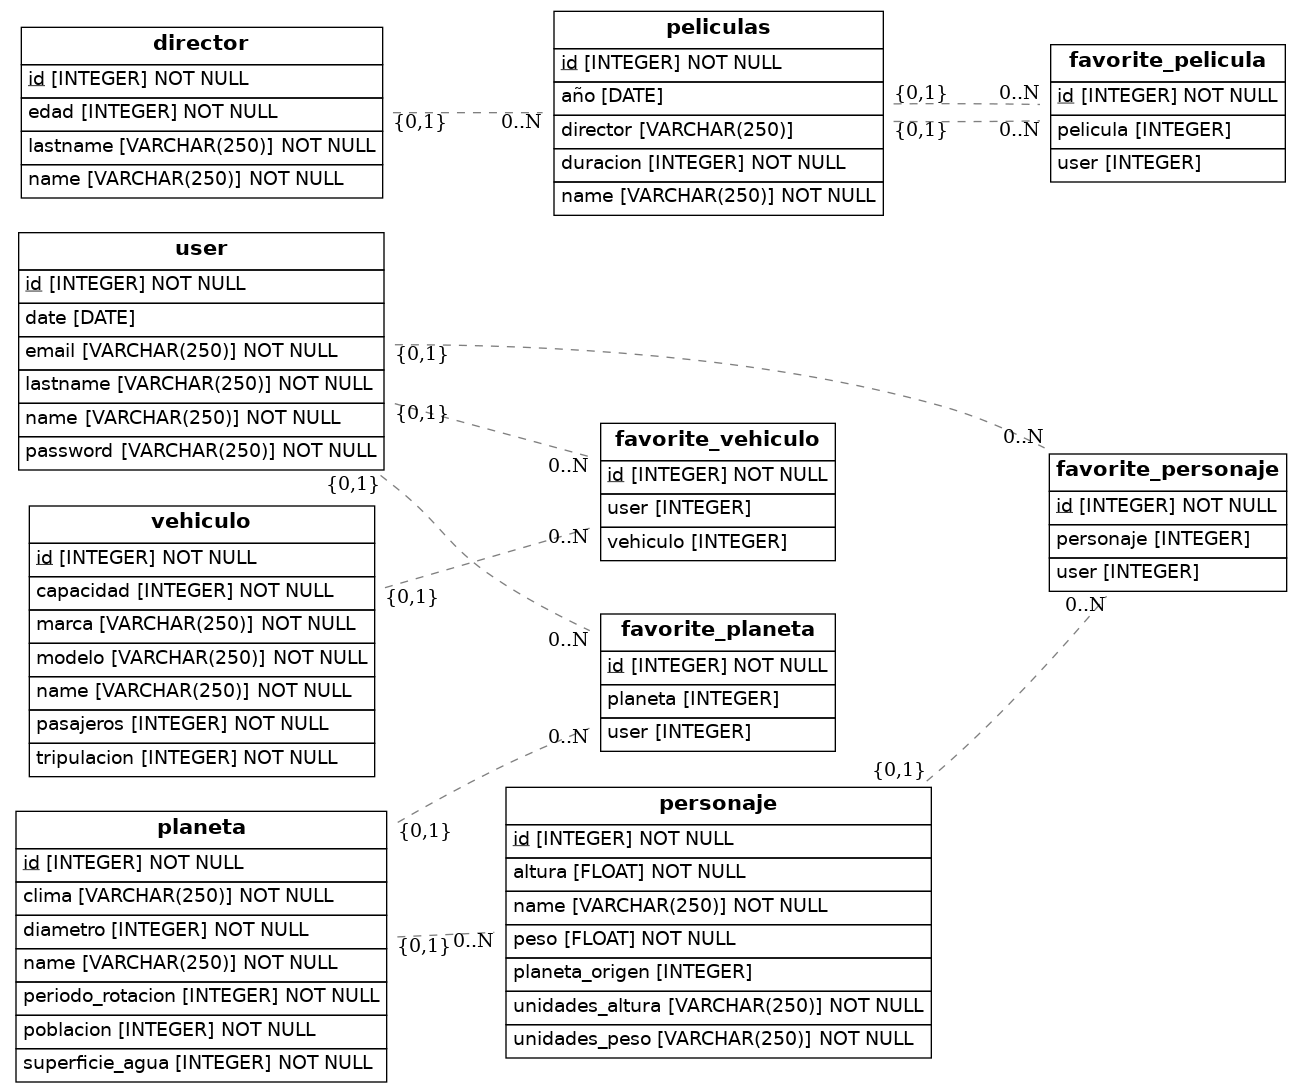
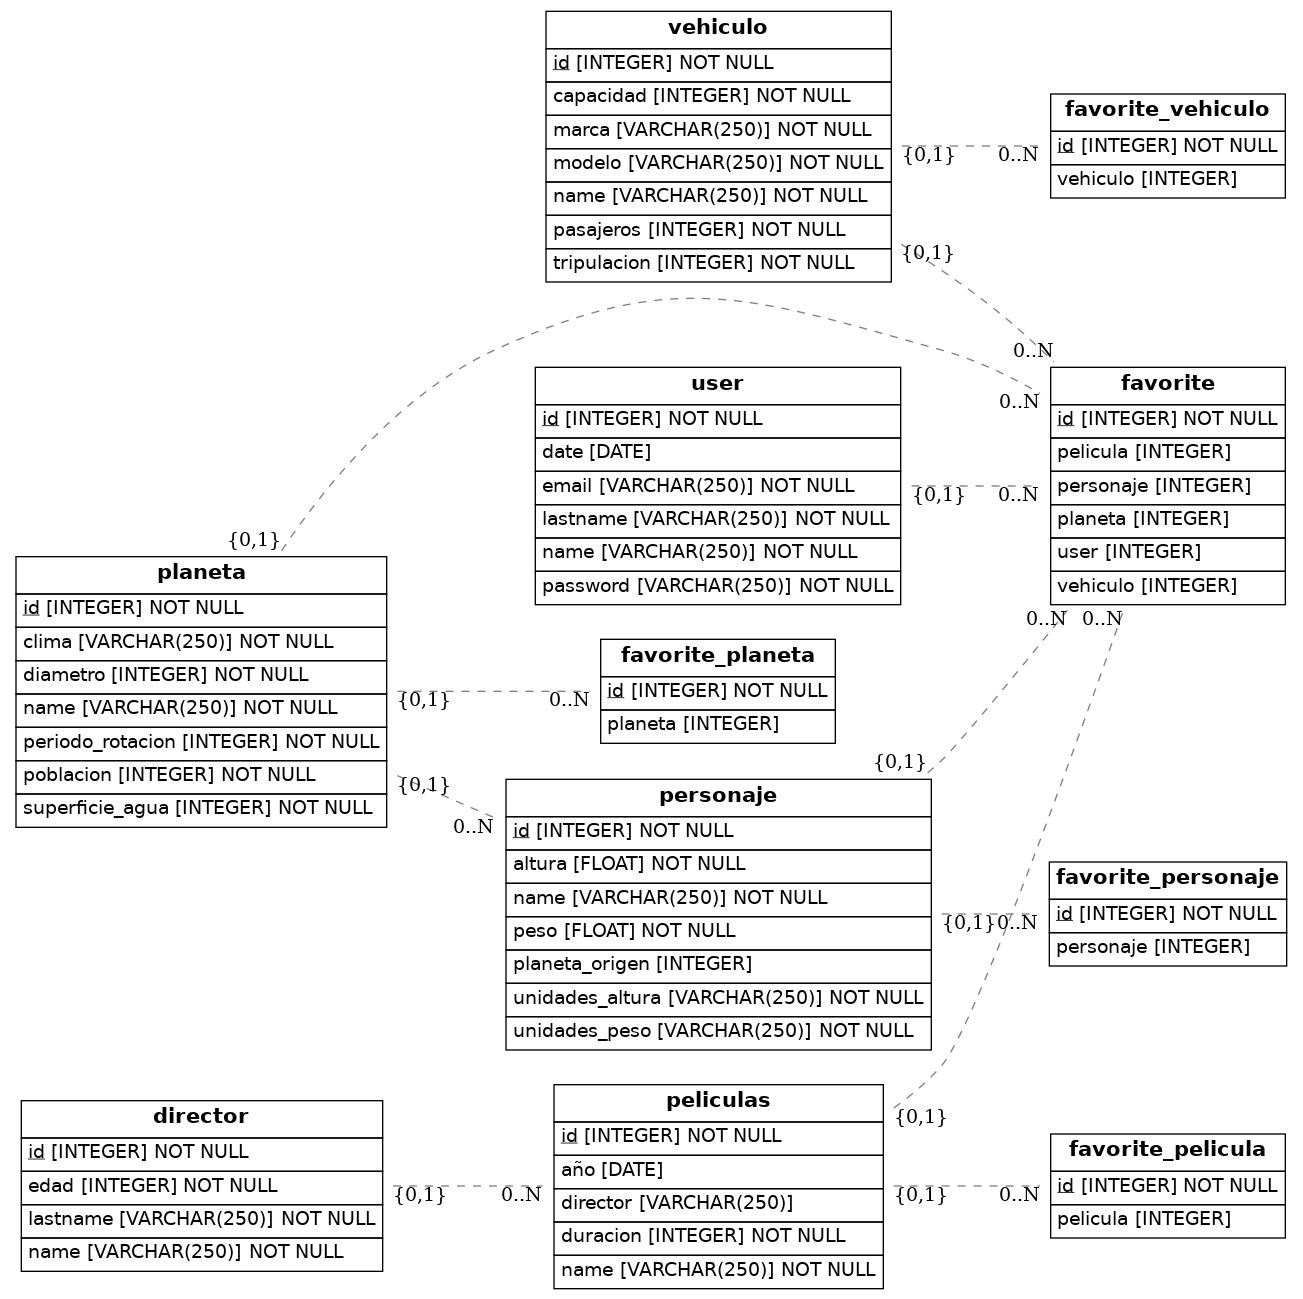
Last version

diff --git a/src/models.py b/src/models.py
@@ -81,7 +81,6 @@ class Director(Base):
 class Favorite_Planeta(Base):
     __tablename__ = 'favorite_planeta'
     id = Column(Integer, primary_key=True)
-    user = Column(Integer, ForeignKey("user.id"))
     planeta = Column(Integer, ForeignKey("planeta.id"))
 
     def to_dict(self):
@@ -90,7 +89,6 @@ class Favorite_Planeta(Base):
 class Favorite_Vehiculo(Base):
     __tablename__ = 'favorite_vehiculo'
     id = Column(Integer, primary_key=True)
-    user = Column(Integer, ForeignKey("user.id"))
     vehiculo = Column(Integer, ForeignKey("vehiculo.id"))
 
     def to_dict(self):
@@ -99,7 +97,6 @@ class Favorite_Vehiculo(Base):
 class Favorite_Personaje(Base):
     __tablename__ = 'favorite_personaje'
     id = Column(Integer, primary_key=True)
-    user = Column(Integer, ForeignKey("user.id"))
     personaje = Column(Integer, ForeignKey("personaje.id"))
 
     def to_dict(self):
@@ -108,11 +105,23 @@ class Favorite_Personaje(Base):
 class Favorite_Pelicula(Base):
     __tablename__ = 'favorite_pelicula'
     id = Column(Integer, primary_key=True)
-    user = Column(Integer, ForeignKey("peliculas.id"))
     pelicula = Column(Integer, ForeignKey("peliculas.id"))
 
     def to_dict(self):
         return {}
+    
+class Favorite(Base):
+    __tablename__ = 'favorite'
+    id = Column(Integer, primary_key=True)
+    user = Column(Integer, ForeignKey("user.id"))
+    pelicula = Column(Integer, ForeignKey("peliculas.id"))
+    personaje = Column(Integer, ForeignKey("personaje.id"))
+    vehiculo = Column(Integer, ForeignKey("vehiculo.id"))
+    planeta = Column(Integer, ForeignKey("planeta.id"))
+
+    def to_dict(self):
+        return {}
+
     
 ## Draw from SQLAlchemy base
 render_er(Base, 'diagram.png')
